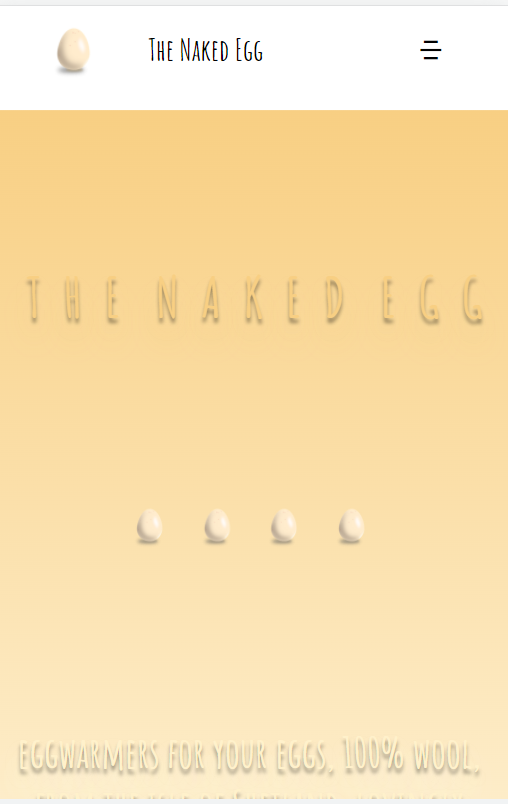
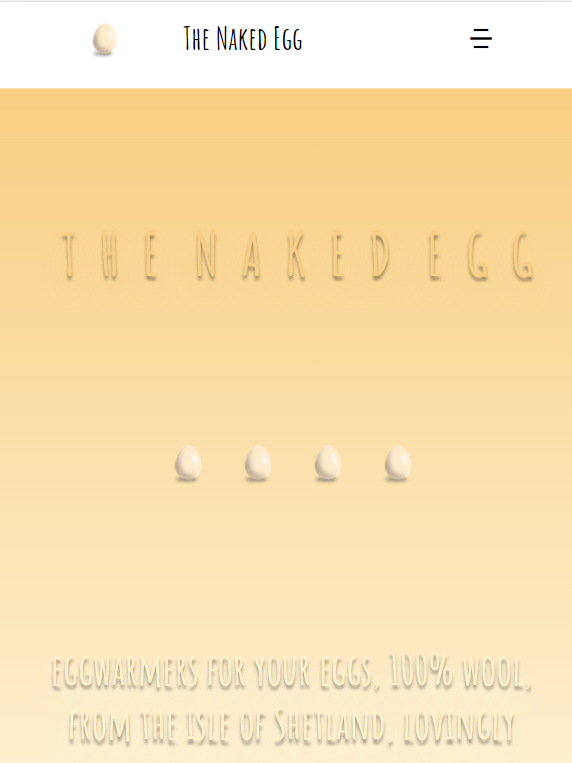
contact

diff --git a/style.css b/style.css
@@ -23,9 +23,8 @@ a {
 :root {
   --color-dark: rgb(0, 0, 0);
   --color-light: rgb(245, 245, 220);
-  --color-one: rgb(32, 196, 148);
-  --color-two: rgb(214, 97, 179);
-  --color-three: rgb(98, 194, 211);
+  --color-accent: rgb(163, 126, 105);
+
   --fs-large: 2rem;
   --fs-small: 1.2rem;
   --bg: url("assets/bg.jpg");
@@ -247,7 +246,7 @@ h2 {
   margin: 0 auto;
   display: block;
   width: 40%;
-  height: 450px;
+  height: auto;
   padding: 0.5em;
   background: var(--color-light);
   filter: grayscale(100%);
@@ -259,6 +258,47 @@ h2 {
 .contact {
   width: 100%;
   overflow: hidden;
+  position: relative;
+}
+
+.contact-info {
+  padding-top: 3em;
+  position: relative;
+  display: grid;
+  grid-template-columns: repeat(3, 1fr);
+  grid-template-rows: repeat(2, 1fr);
+  align-content: center;
+}
+
+.contact-info p {
+  grid-row: 1/2;
+  grid-column: 2/3;
+  font-size: var(--fs-large);
+}
+
+.contact-info :nth-child(2) {
+  grid-row: 2/2;
+}
+
+.contact-info :nth-child(3) {
+  grid-row: 2/2;
+  grid-column: 2/3;
+}
+
+.contact-info :nth-child(4) {
+  grid-row: 2/2;
+  grid-column: 3/3;
+}
+
+.contact-icon {
+  width: 8em;
+  height: 3rem;
+  margin-top: 3rem;
+  stroke: var(--color-light);
+}
+.contact-icon:hover {
+  stroke: var(--color-accent);
+  stroke-width: 1;
 }
 
 /*PARTICLES*/
@@ -272,26 +312,16 @@ h2 {
   grid-template-rows: repeat(3, 1fr);
   gap: 150px;
   padding: 4em;
+  position: absolute;
+  z-index: -1;
 }
 
-.dots {
+.wrapper-dots > .dots {
   border-radius: 50%;
-  animation: color 5s linear infinite;
-  color: var(--color-light);
+  color: var(--color-accent);
+  filter: hue-rotate(0deg);
+  position: relative;
 }
-
-.wrapper-dots :nth-child(3n + 1) {
-  color: var(--color-one);
-}
-
-.wrapper-dots :nth-child(3n - 1) {
-  color: var(--color-two);
-}
-
-.wrapper-dots :nth-child(3n) {
-  color: var(--color-three);
-}
-
 .wrapper-dots :nth-child(1) {
   animation: move 6s reverse infinite cubic-bezier(0.43, 0.87, 0.86, 0.33);
 }
@@ -320,10 +350,20 @@ h2 {
   animation: move 10s reverse infinite cubic-bezier(0.895, 0.03, 0.685, 0.22);
 }
 
-@keyframes color {
-  100% {
-    filter: hue-rotate(360deg);
-  }
+.wrapper-dots > .dots::before {
+  position: absolute;
+  content: ".";
+  color: blue;
+  top: -300px;
+  left: 300px;
+}
+
+.wrapper-dots > .dots::after {
+  position: absolute;
+  content: ".";
+  color: yellow;
+  top: 300px;
+  left: -300px;
 }
 
 @keyframes move {
@@ -332,6 +372,7 @@ h2 {
   }
   100% {
     transform: rotate(360deg);
+    filter: hue-rotate(360deg);
   }
 }
 
@@ -370,6 +411,7 @@ h2 {
   }
   .cards img {
     width: 30%;
+    /* height: 400px; */
   }
 }
 
@@ -422,6 +464,28 @@ h2 {
   }
 }
 
+@media screen and (max-width: 600px) {
+  .contact-info {
+    grid-template-rows: repeat(4, 1fr);
+    margin-bottom: 2em;
+  }
+  .contact-info :nth-child(2) {
+    grid-row: 2;
+    grid-column: 2/3;
+  }
+  .contact-info :nth-child(3) {
+    grid-row: 3;
+    grid-column: 2/3;
+  }
+  .contact-info :nth-child(4) {
+    grid-row: 4;
+    grid-column: 2/3;
+  }
+  .cards img {
+    width: 60%;
+  }
+}
+
 @media screen and (max-width: 320px) {
   .images {
     width: 100%;
@@ -433,15 +497,6 @@ h2 {
 }
 
 /* ANIMATION */
-
-/*.animation::before {
-            content: 'webdeveloper';
-            position: absolute;
-            color: beige;
-            display: inline-block;
-            font-size: 7vw;
-            left: 30%;
-}*/
 
 .animation {
   position: absolute;

diff --git a/index.html b/index.html
@@ -7,6 +7,7 @@
     <title>Portfolio</title>
 
     <link rel="stylesheet" href="style.css" />
+    <script src="https://unpkg.com/feather-icons" defer></script>
     <script src="script.js" defer></script>
   </head>
 
@@ -67,7 +68,7 @@
             </div>
             <div class="card">
               <h3></h3>
-              <img src="assets/webshop.png" alt="" />
+              <img src="assets/egg.png" alt="" />
             </div>
             <div class="card">
               <h3></h3>
@@ -86,37 +87,43 @@
             href="https://leontinec.github.io/webshop"
             target="_blank"
             rel="noreferrer noopener"
-            >webshop</a>
+            >webshop</a
+          >
 
           <a
             href="https://leontinec.github.io/pastel-react/"
             target="_blank"
             rel="noreferrer noopener"
-            >pastel</a>
+            >pastel</a
+          >
 
           <a
             href="https://leontinec.github.io/cube-of-encouragement/"
             target="_blank"
             rel="noreferrer noopener"
-            >cube</a>
+            >cube</a
+          >
 
-            <a
+          <a
             href="https://leontinec.github.io/weather-app/"
             target="_blank"
             rel="noreferrer noopener"
-          >weather</a>
+            >weather</a
+          >
 
           <a
-          href="https://leontinec.github.io/night-sky-gsap/"
-          target="_blank"
-          rel="noreferrer noopener"
-        >night sky</a>
+            href="https://leontinec.github.io/night-sky-gsap/"
+            target="_blank"
+            rel="noreferrer noopener"
+            >night sky</a
+          >
 
-        <a
-        href="https://leontinec.github.io/carousel-vanilla/"
-        target="_blank"
-        rel="noreferrer noopener"
-      >carousel</a>
+          <a
+            href="https://leontinec.github.io/carousel-vanilla/"
+            target="_blank"
+            rel="noreferrer noopener"
+            >carousel</a
+          >
         </section>
         <section class="contact" id="contact">
           <h2 class="letters">Contact</h2>
@@ -131,7 +138,19 @@
             <p class="dots">.</p>
             <p class="dots">.</p>
           </div>
-          <p></p>
+          <div class="contact-info">
+          <p>Get in touch!</p>
+          <a href="https://www.linkedin.com/in/leontine-claassen-833747213/" target="_blank"
+          rel="noreferrer noopener"><i data-feather="linkedin" class="contact-icon"></i></a>
+        
+            <a href="https://github.com/LeontineC" target="_blank"
+            rel="noreferrer noopener"><i data-feather="github" class="contact-icon"></i></a>
+          
+             
+            <a href="mailto:leon.claassen00@gmail.com" target="_blank"
+            rel="noreferrer noopener"><i data-feather="mail" class="contact-icon"></i></a>
+         
+        </div>
         </section>
       </div>
       <div class="pointer"></div>

diff --git a/script.js b/script.js
@@ -10,6 +10,9 @@ const image = document.querySelectorAll('.image');
 const images = document.querySelector('.images');
 
 
+//ICONS
+feather.replace();
+
 //OPENING ANIMATION TIMEOUTS
 
 stopDisplay = () => {
